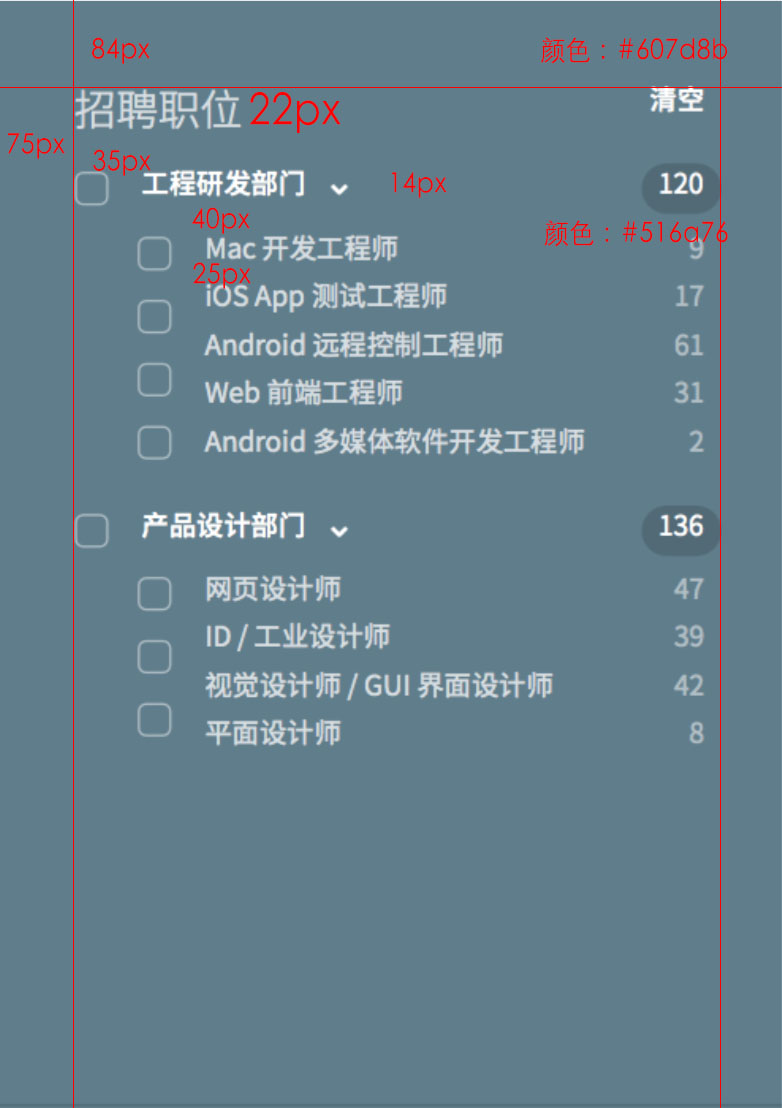
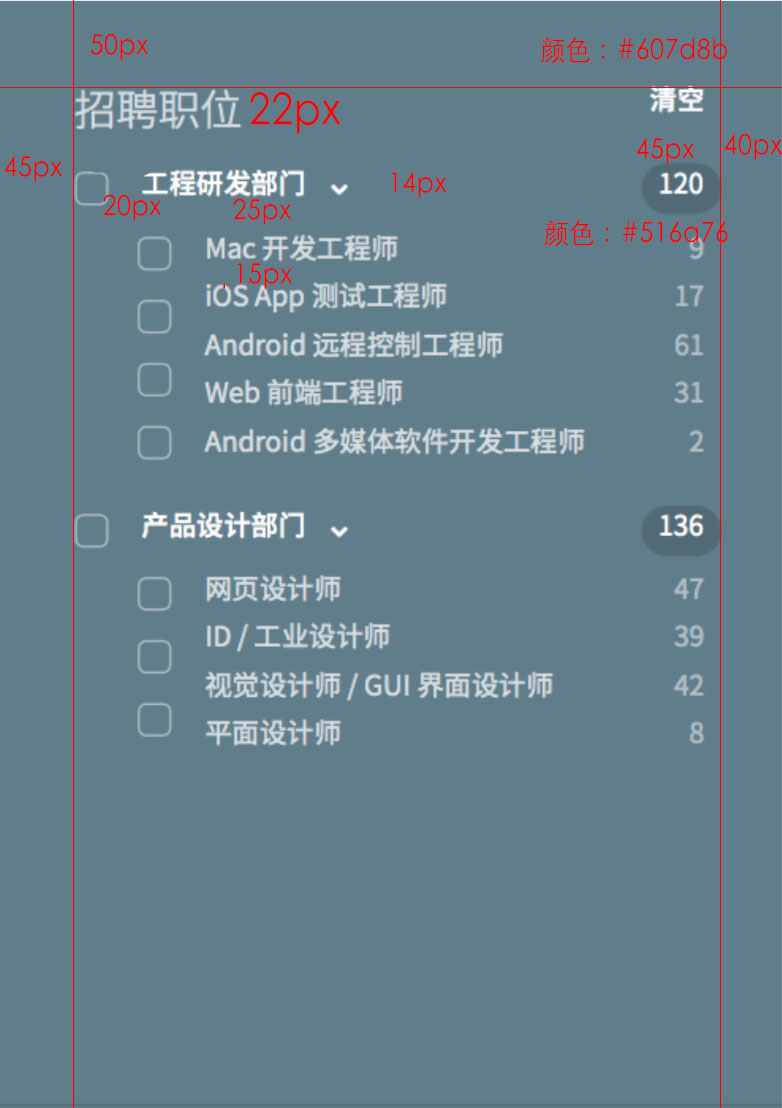
docs(chore): #000 更新UI标注

diff --git a/src/index.css b/src/index.css
@@ -3,3 +3,16 @@ body {
   padding: 0;
   font-family: sans-serif;
 }
+
+.App {
+  
+}
+
+/* 页面布局 */
+.layout-left {
+  float: left;
+  width: 782px;
+  height: 100vh;
+  min-height: 100vh;
+  background: #607d8b;
+}
